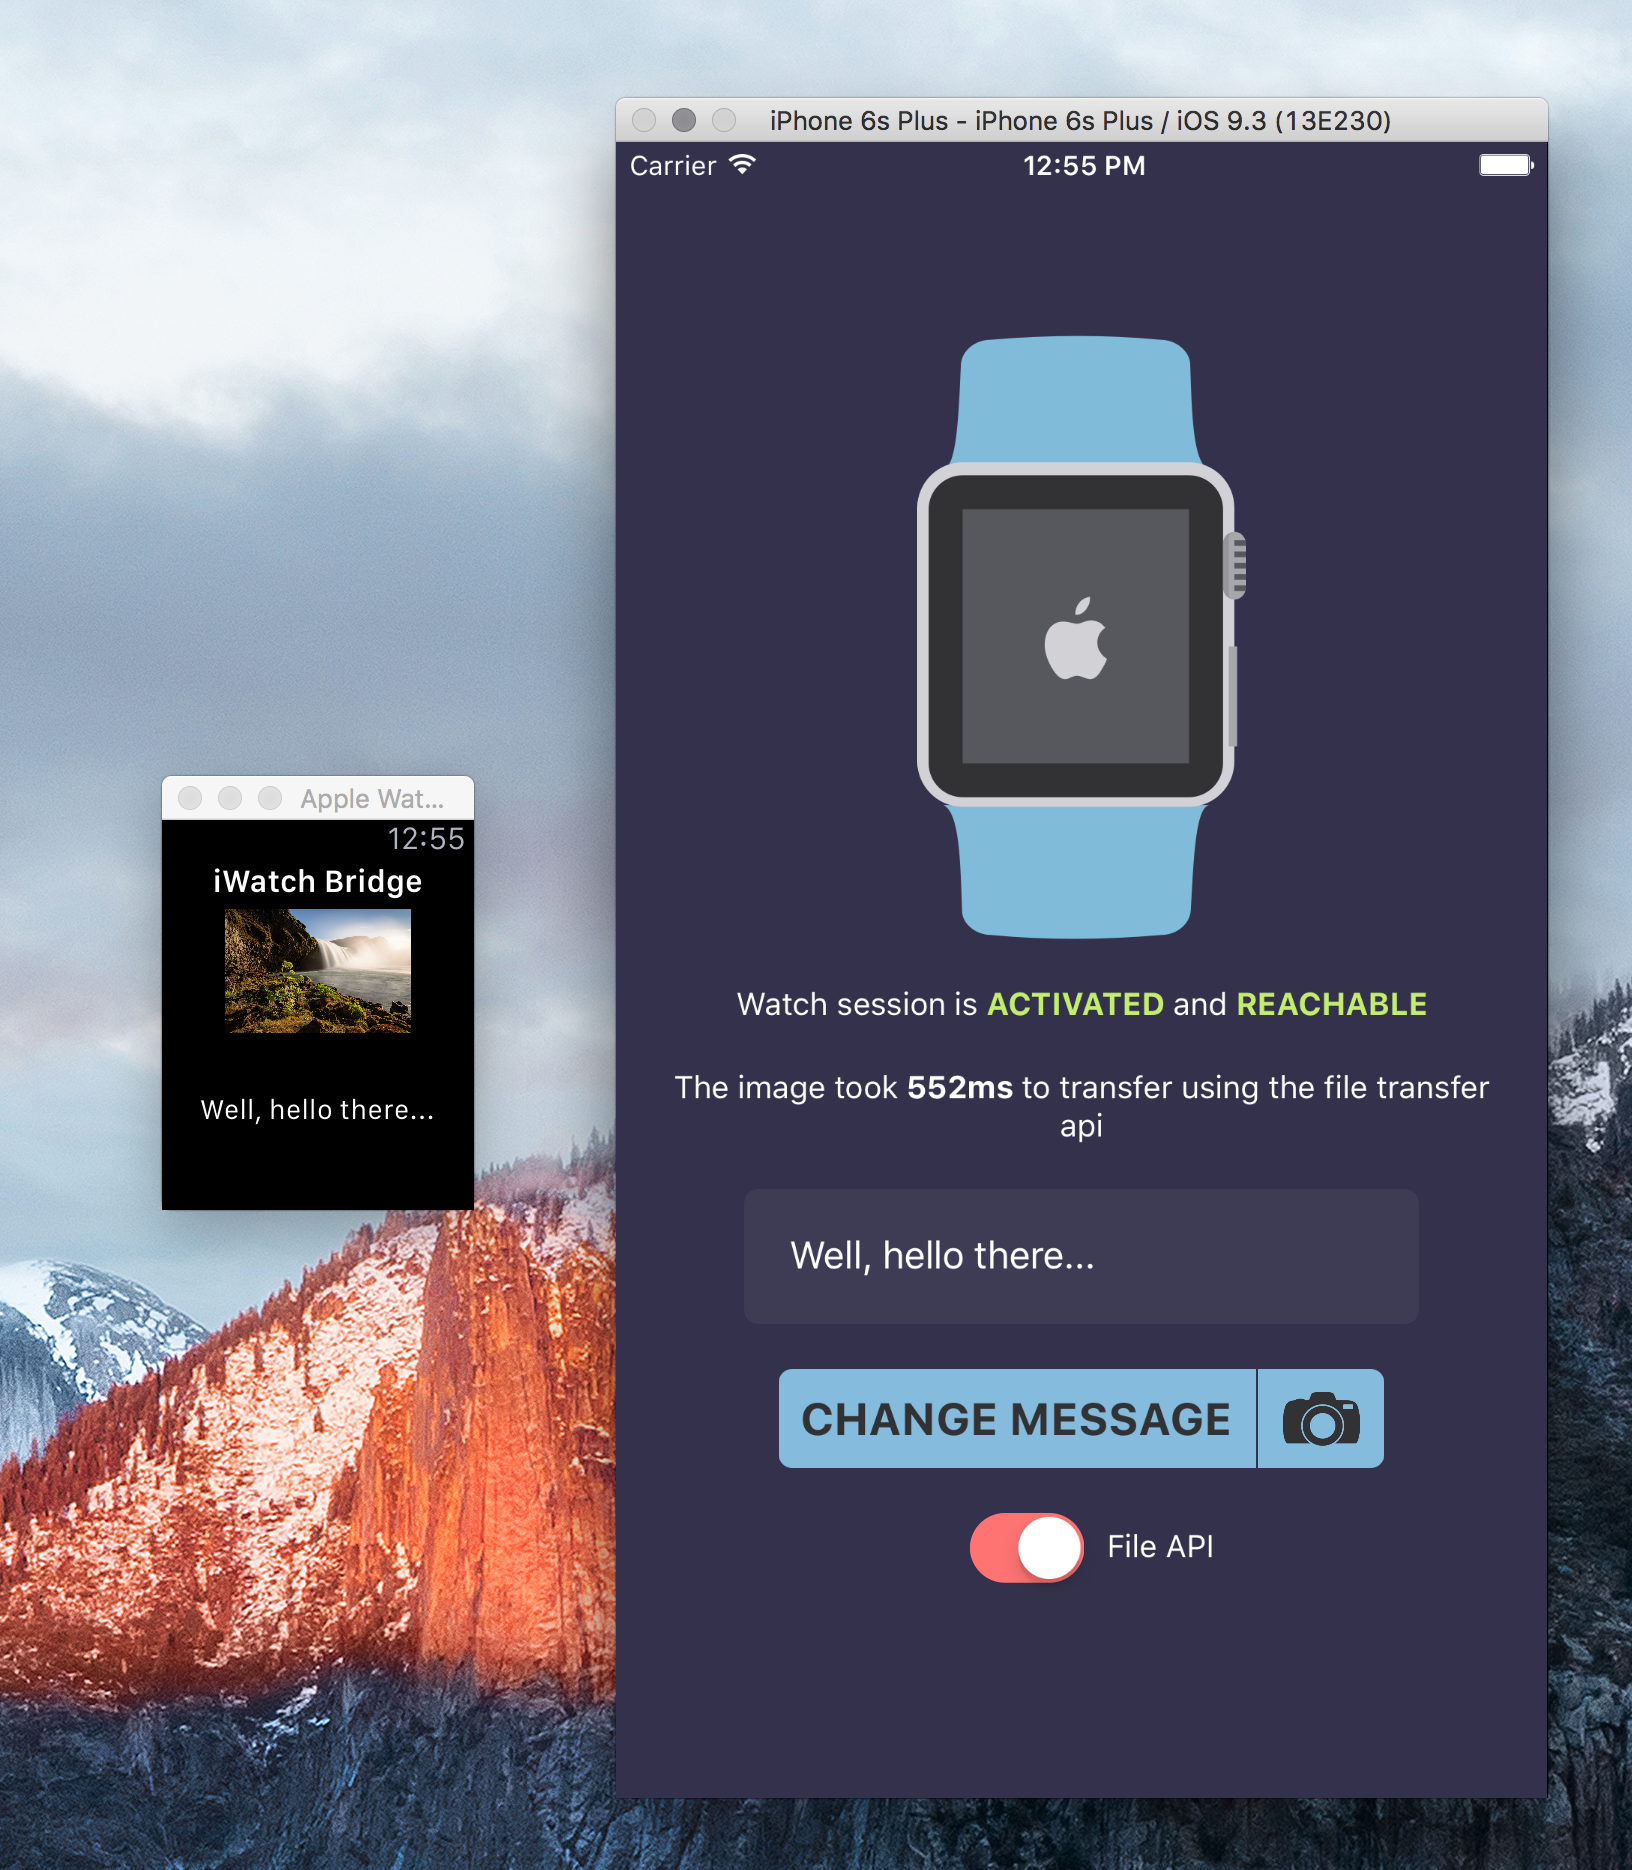
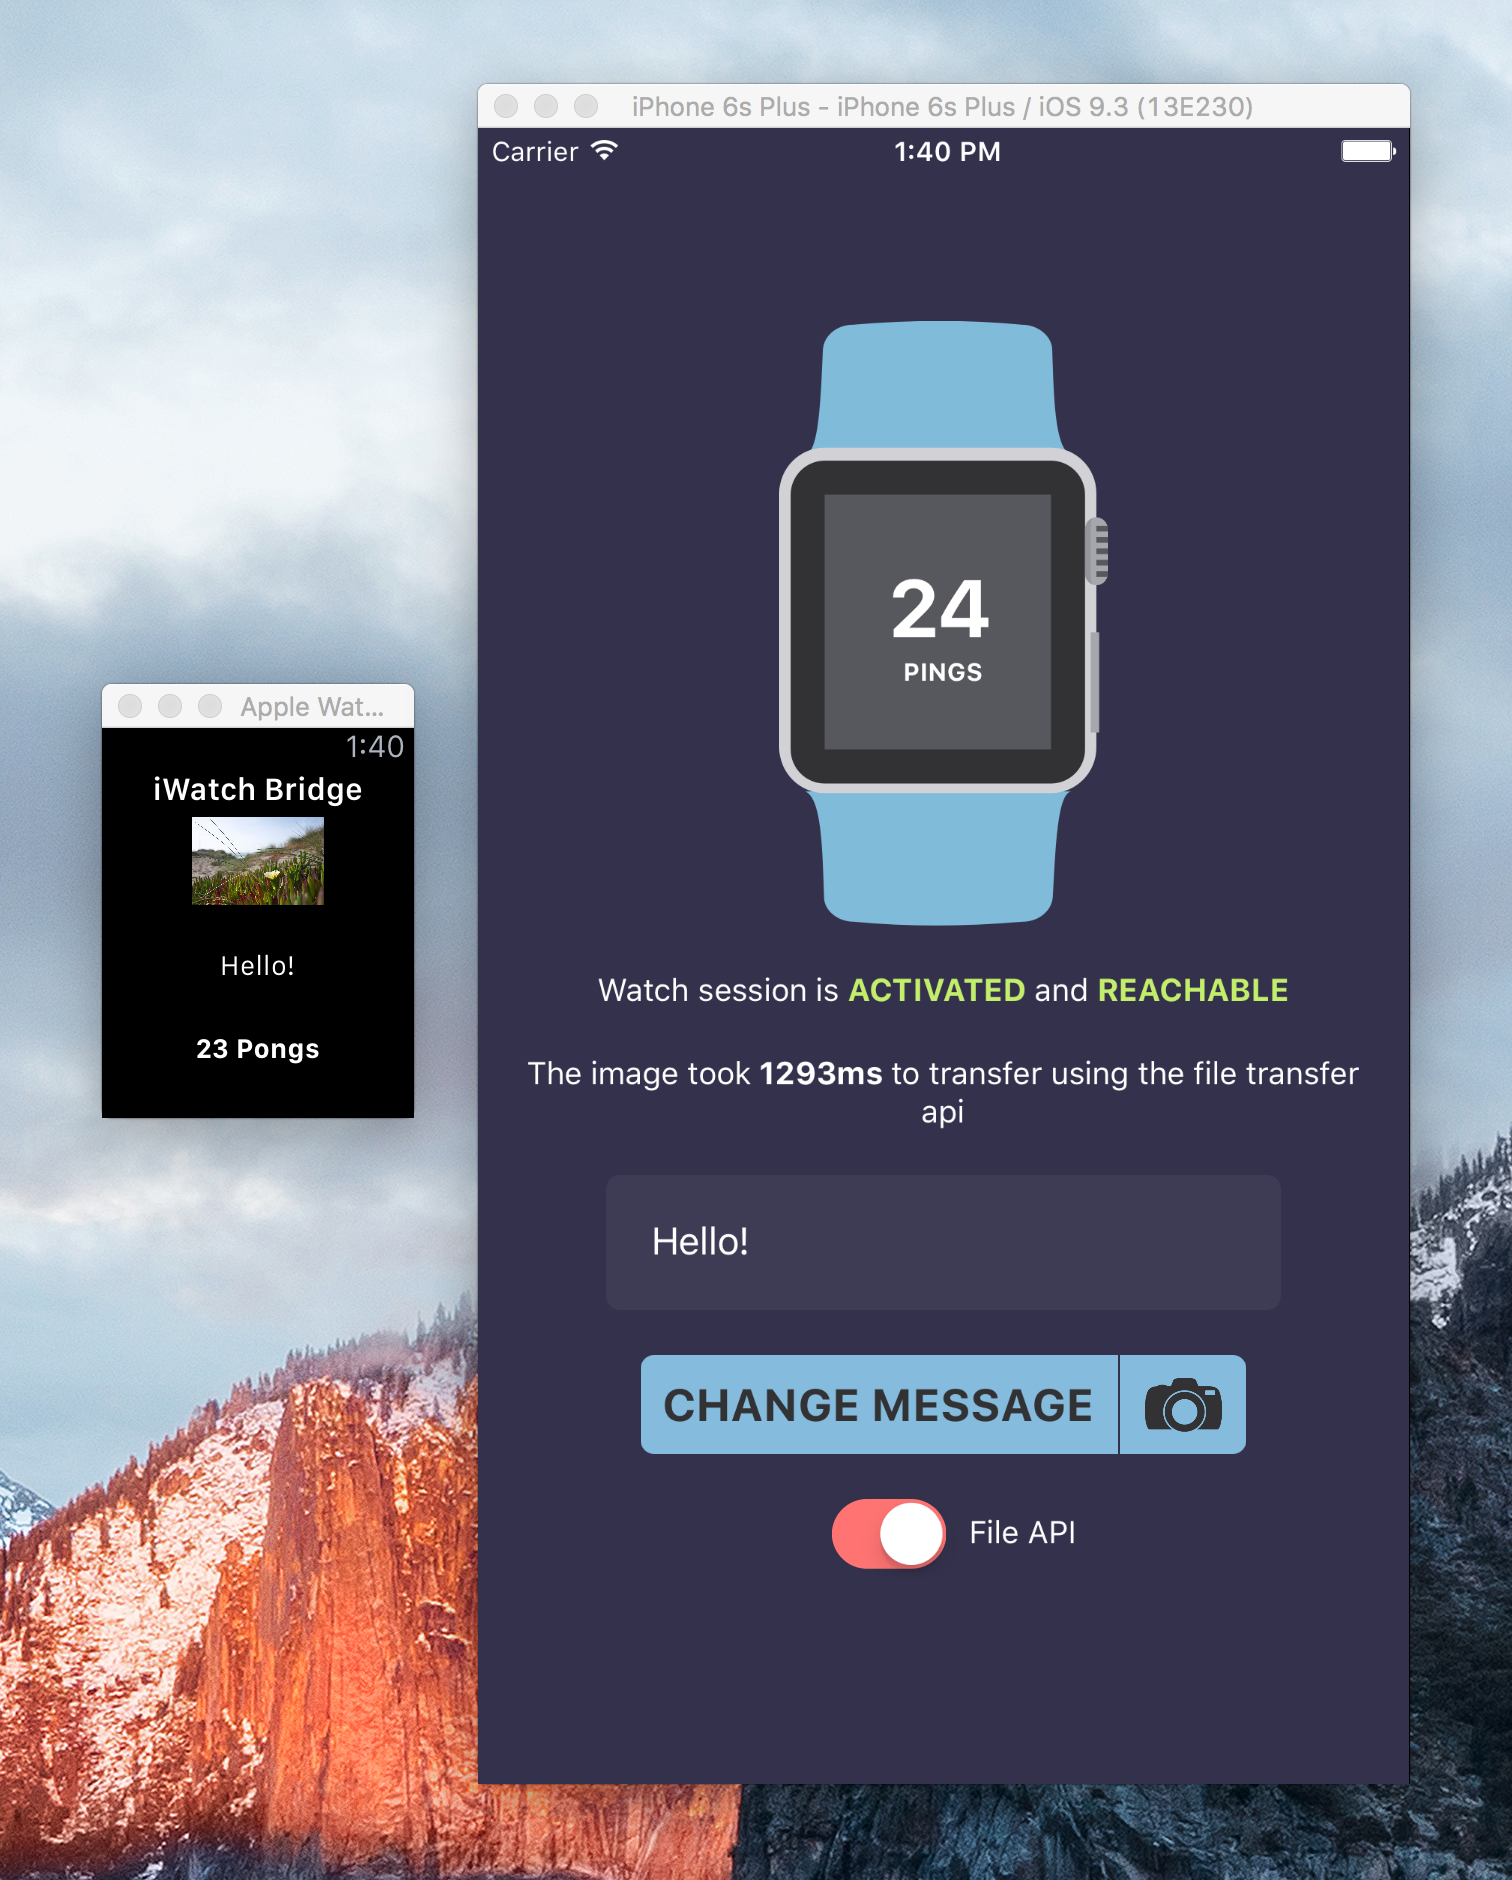
pings, pongs & updated screenshot

diff --git a/demo/WatchImage.js b/demo/WatchImage.js
@@ -1,27 +1,70 @@
 import React, {
   Image,
   Component,
-  StyleSheet
+  StyleSheet,
+  View,
+  Text
 } from 'react-native'
 
 import {ROW_MARGIN} from './constants'
 
 export default class WatchImage extends Component {
+  static defaultProps = {
+    pings: 0
+  };
+
   render () {
     return (
-      <Image
-        style={styles.image}
-        source={{uri: 'Watch'}}
-        {...this.props}
-      />
+      <View style={styles.container}>
+        <Image
+          style={styles.image}
+          source={{uri: 'Watch'}}
+          {...this.props}
+        />
+        <View style={styles.pings}>
+          <Text style={styles.numPingsText}>{this.props.pings}</Text>
+          <Text style={styles.pingsText}>PINGS</Text>
+        </View>
+
+      </View>
     )
   }
 }
 
+const imageSize = {
+  width:  146,
+  height: 269,
+}
+
 const styles = StyleSheet.create({
-  image: {
-    width:        146,
-    height:       269,
-    marginBottom: ROW_MARGIN
+  image:        {
+    ...imageSize,
+    position: 'absolute',
+    top:      0,
+    left:     0
+  },
+  pings:        {
+    backgroundColor: 'transparent',
+  },
+  numPingsText: {
+    color:        'white',
+    fontWeight:   'bold',
+    fontSize:     36,
+    textAlign:    'center',
+    position:     'relative',
+    right:        1
+  },
+  pingsText:    {
+    color:      'white',
+    fontWeight: 'bold',
+    fontSize:   11,
+    textAlign:  'center'
+  },
+  container:    {
+    ...imageSize,
+    position:       'relative',
+    alignItems:     'center',
+    justifyContent: 'center',
+    marginBottom:   ROW_MARGIN
   }
 })

diff --git a/ios/watch Extension/InterfaceController.swift b/ios/watch Extension/InterfaceController.swift
@@ -10,9 +10,13 @@ import WatchKit
 import WatchConnectivity
 import Foundation
 
+
+
 class InterfaceController: WKInterfaceController, WCSessionDelegate {
   @IBOutlet weak var label: WKInterfaceLabel!
+  @IBOutlet weak var pongs: WKInterfaceLabel!
   @IBOutlet weak var image: WKInterfaceImage!
+  var numPongs: Int = 0
 
   var session: WCSession?
   
@@ -82,10 +86,18 @@ class InterfaceController: WKInterfaceController, WCSessionDelegate {
     print("did receive user info", userInfo)
     // Send the bullshit user info back to the device just to demonstrate it works ;)
     session.transferUserInfo(userInfo)
-    print("sending ping")
+    self.sendPing(session)
+
+  }
+  
+  func sendPing(session: WCSession) {
+    print("Sending ping")
     session.sendMessage(["message": "ping"], replyHandler: { (dict) in
-      print("pong received", dict)
-      }, errorHandler: nil)
+      print("Received pong")
+      self.numPongs += 1
+      self.pongs.setText(String(format: "%i Pongs", self.numPongs))
+      self.sendPing(session)
+    }, errorHandler: nil)
   }
   
   ////////////////////////////////////////////////////////////////////////////////

diff --git a/demo/Root.js b/demo/Root.js
@@ -24,7 +24,8 @@ export default class Root extends Component {
       loading:    false,
       text:       '',
       watchState: watch.WatchState.Inactive,
-      fileAPI:    true
+      fileAPI:    true,
+      pings:      0
     }
   }
 
@@ -192,7 +193,7 @@ export default class Root extends Component {
   render () {
     return (
       <View style={styles.container}>
-        <WatchImage/>
+        <WatchImage pings={this.state.pings}/>
         <View>
           <ReachabilityText
             watchState={this.state.watchState}
@@ -218,12 +219,12 @@ export default class Root extends Component {
     )
   }
 
-
   receiveMessage (err, message, replyHandler) {
     if (err) console.error(`Error receiving message`, err)
     else {
       console.log('app received message', message)
       if (message.message === 'ping') {
+        this.setState({pings: this.state.pings + 1})
         if (replyHandler) {
           replyHandler({message: 'pong'})
         }
